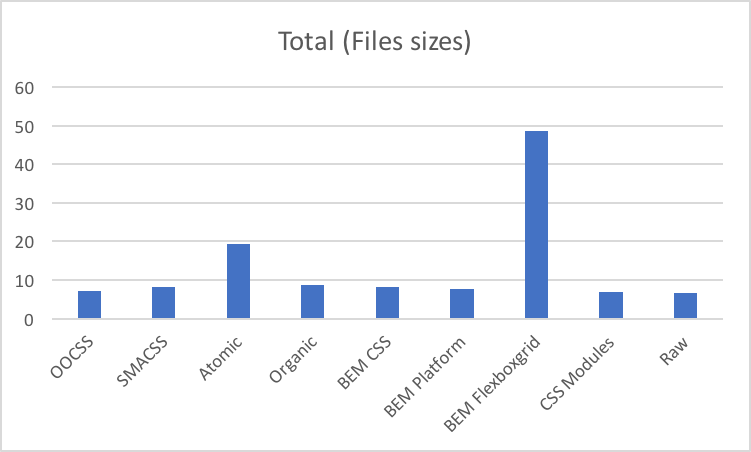
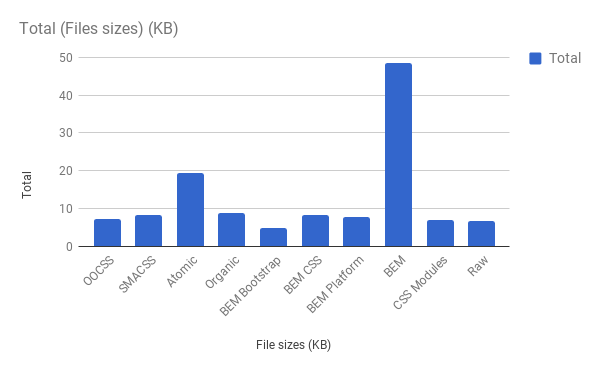
Updated stats for bem-bootstrap-4

diff --git a/Gruntfile.js b/Gruntfile.js
@@ -4,6 +4,7 @@ module.exports = function(grunt) {
       dev: {
         src: [
           'atomic/style.css',
+          'bem-bootstrap-4/style.css',
           'bem-css/style.css',
           'bem-flexboxgrid/style.css',
           'bem-platform/pages/index/index.css',

diff --git a/README.md b/README.md
@@ -39,12 +39,13 @@ The code is available under the [CC BY 4.0](https://creativecommons.org/licenses
 - [OOCSS](https://www.smashingmagazine.com/2011/12/an-introduction-to-object-oriented-css-oocss/)
 - [SMACSS](https://smacss.com)
 - [Atomic Design](http://atomicdesign.bradfrost.com/chapter-2/):
- - [Atomic CSS](http://acss.io)
- - [Organic CSS](http://krasimir.github.io/organic-css/)
-- [BEM](https://en.bem.info/methodology/quick-start/)
- - [BEM CSS](https://en.bem.info/methodology/css/) ([Harry Roberts style](http://csswizardry.com/2015/08/bemit-taking-the-bem-naming-convention-a-step-further/))
- - [BEM Platform](https://en.bem.info/platform/)
- - BEM CSS with [grid](https://github.com/vivid-web/flexbox-grid-sass)
+  * [Atomic CSS](http://acss.io)
+  * [Organic CSS](http://krasimir.github.io/organic-css/)
+- [BEM ](https://en.bem.info/methodology/quick-start/)
+  * [BEM Boottrap-4](https://en.bem.info/methodology/quick-start/)
+  * [BEM CSS](https://en.bem.info/methodology/css/) ([Harry Roberts style](http://csswizardry.com/2015/08/bemit-taking-the-bem-naming-convention-a-step-further/))
+  * [BEM Platform](https://en.bem.info/platform/)
+  * BEM CSS with [grid](https://github.com/vivid-web/flexbox-grid-sass)
 - [CSS Modules](https://github.com/css-modules/css-modules)
 - css-in-js (React), and ITCSS will be added soon!
 

diff --git a/STATISTICS.md b/STATISTICS.md
@@ -19,6 +19,7 @@ Here a statistics for each of implementation/example. Also available as `.xlsx` 
 |SMACSS|111|219|330
 |Atomic|219|224|332
 |Organic|108|187|295
+|BEM Bootstrap 4|117|6231|6348
 |BEM CSS|117|244|361
 |BEM Platform|95|250|345
 |BEM Flexboxgrid|117|714|831
@@ -33,6 +34,7 @@ Here a statistics for each of implementation/example. Also available as `.xlsx` 
 |SMACSS|5.88 KB|2.269 KB|8.149 KB
 |Atomic|6.83 KB|12.5 KB|19.33 KB
 |Organic|5.09 KB|3.69 KB|8.78 KB
+|BEM Bootstrap 4|6.28 KB|148 KB|154.28 KB
 |BEM CSS|5.68 KB|2.55 KB|8.23 KB
 |BEM Platform|4.83 KB|2.79 KB|7.62 KB
 |BEM Flexboxgrid|5.87 KB|42.6 KB|48.47 KB
@@ -47,6 +49,7 @@ Here a statistics for each of implementation/example. Also available as `.xlsx` 
 |SMACSS|31|92|31|1.0|2.54
 |Atomic|75|80|72|1.0|1.1
 |Organic|80|94|55|1.5|1.7
+|BEM Bootstrap|2610|3266|1856|1.4|1.8
 |BEM CSS|38|96|38|1.0|2.5
 |BEM Platform|40|103|40|1.0|2.6
 |BEM Flexboxgrid|282|394|249|1.1|1.6
